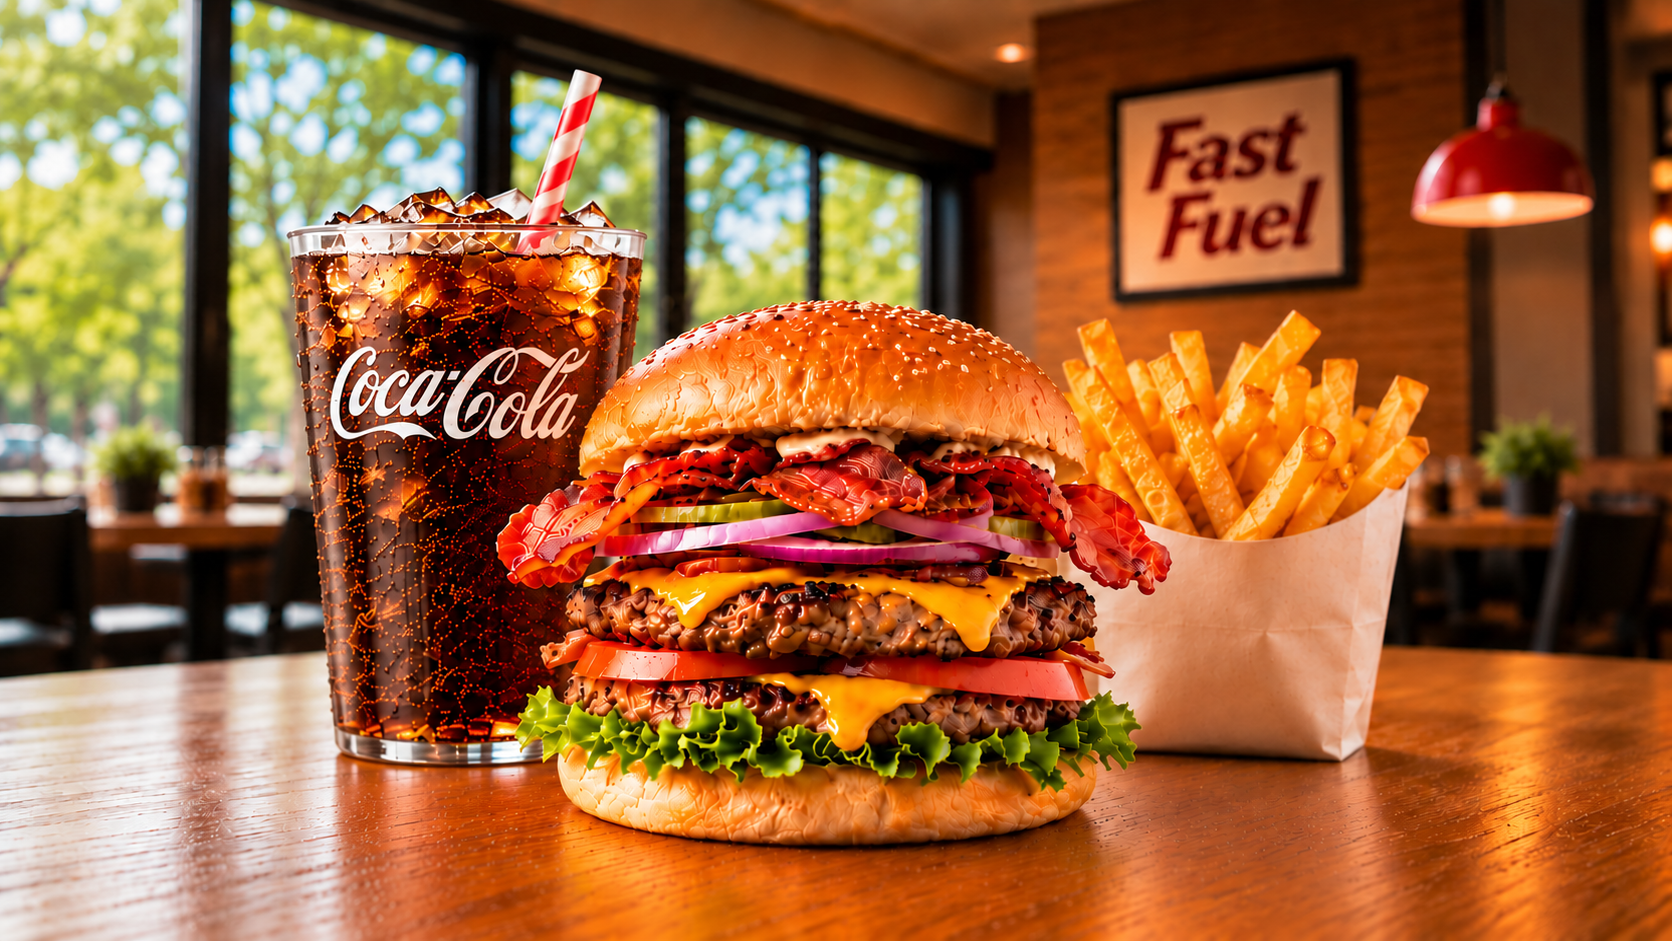
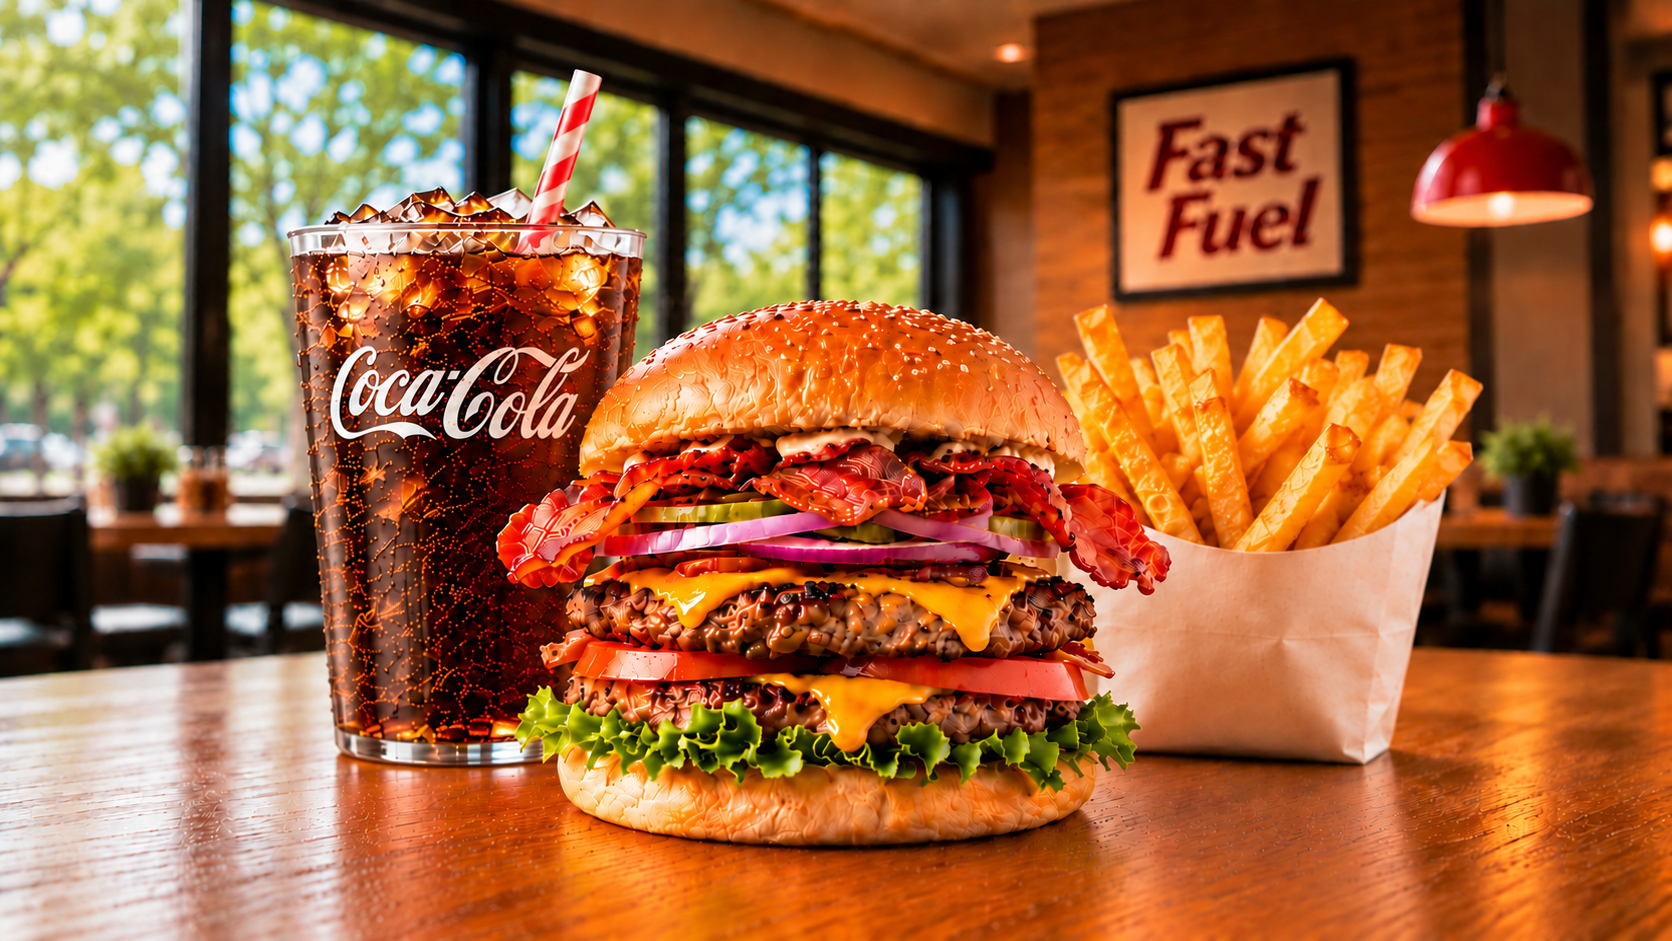
removed chip from track orders logged

diff --git a/src/components/orders/logged/LoggedOrderCard.tsx b/src/components/orders/logged/LoggedOrderCard.tsx
@@ -1,4 +1,4 @@
-import { Box, Button, Chip, Paper, Stack, Typography } from "@mui/material";
+import { Box, Button, Paper, Stack, Typography } from "@mui/material";
 import ExpandMoreIcon from "@mui/icons-material/ExpandMore";
 
 import type { Sale } from "../types";
@@ -72,74 +72,6 @@ function userStatusText(status: Sale["status"]) {
     return { label: "COMPLETED", hint: "Delivered" };
 }
 
-const chipBaseSx = {
-    fontWeight: 900,
-    letterSpacing: "0.10em",
-    fontSize: { xs: "0.62rem", sm: "0.68rem" },
-    height: { xs: 20, sm: 22 },
-    px: { xs: 0.45, sm: 0.65 },
-    "& .MuiChip-label": {
-        px: { xs: 0.6, sm: 0.8 },
-    },
-};
-
-function UserStatusChip({ status }: { status: Sale["status"] }) {
-    const t = userStatusText(status);
-
-    if (status === "received") {
-        return (
-            <Chip
-                label={t.label}
-                size="small"
-                sx={{
-                    ...chipBaseSx,
-                    bgcolor: "rgba(46, 125, 50, 0.12)",
-                    color: "#2e7d32",
-                }}
-            />
-        );
-    }
-
-    if (status === "in_progress") {
-        return (
-            <Chip
-                label={t.label}
-                size="small"
-                sx={{
-                    ...chipBaseSx,
-                    bgcolor: "rgba(30, 91, 184, 0.12)",
-                    color: "#1e5bb8",
-                }}
-            />
-        );
-    }
-
-    if (status === "sent") {
-        return (
-            <Chip
-                label={t.label}
-                size="small"
-                sx={{
-                    ...chipBaseSx,
-                    bgcolor: "rgba(237, 108, 2, 0.12)",
-                    color: "#ed6c02",
-                }}
-            />
-        );
-    }
-
-    return (
-        <Chip
-            label={t.label}
-            size="small"
-            sx={{
-                ...chipBaseSx,
-                bgcolor: "rgba(0,0,0,0.10)",
-                color: "#333",
-            }}
-        />
-    );
-}
 
 export default function LoggedOrderCard({
     order: o,
@@ -267,7 +199,6 @@ export default function LoggedOrderCard({
                             gap={0.6}
                             sx={{ transform: "translateY(-1px)" }}
                         >
-                            <UserStatusChip status={o.status} />
 
                             <Button
                                 size="small"

diff --git a/src/components/products/ProductCardDesktopLandscape.tsx b/src/components/products/ProductCardDesktopLandscape.tsx
@@ -191,7 +191,7 @@ export default function ProductCardDesktopLandscape({
                             lineHeight: 1.57,
                             letterSpacing: "0.01em",
                             fontFamily: "Inter, sans-serif",
-                            color: "rgba(20,20,20,0.93)",
+                            color: "rgba(20,20,20,0.95)",
                             wordBreak: "normal",
                             overflowWrap: "normal",
                             hyphens: "none",
